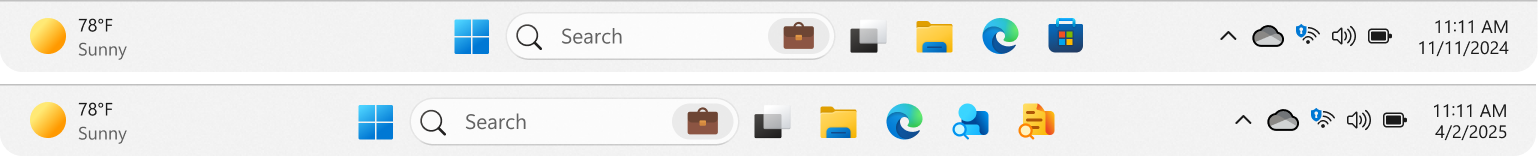
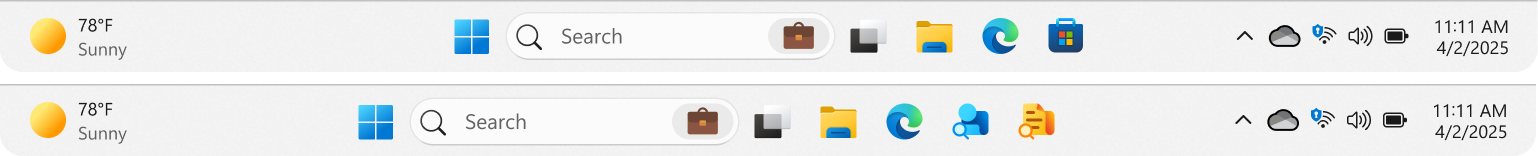
updates

Changed region(s): [[0.7802, 0.1538, 0.9987, 0.359]]

diff --git a/windows/configuration/taskbar/includes/example-replace-pins-pingeneration.md b/windows/configuration/taskbar/includes/example-replace-pins-pingeneration.md
@@ -16,11 +16,11 @@ ms.topic: include
   <CustomTaskbarLayoutCollection PinListPlacement="Replace">
     <defaultlayout:TaskbarLayout>
       <taskbar:TaskbarPinList>
-        <taskbar:UWA AppUserModelID="windows.immersivecontrolpanel_cw5n1h2txyewy!microsoft.windows.immersivecontrolpanel" />
+        <taskbar:UWA AppUserModelID="windows.immersivecontrolpanel_cw5n1h2txyewy!microsoft.windows.immersivecontrolpanel" PinGeneration="1"/>
+        <taskbar:DesktopApp DesktopApplicationID="MSEdge"/>
         <taskbar:DesktopApp DesktopApplicationID="Microsoft.Windows.Explorer"/>
-        <taskbar:UWA AppUserModelID="Microsoft.MicrosoftEdge.Stable_8wekyb3d8bbwe!App" />
-        <taskbar:UWA AppUserModelID="Microsoft.M365Companions_8wekyb3d8bbwe!People" pingeneration="1"/>
-        <taskbar:UWA AppUserModelID="Microsoft.M365Companions_8wekyb3d8bbwe!Files" pingeneration"1"/>
+        <taskbar:UWA AppUserModelID="Microsoft.M365Companions_8wekyb3d8bbwe!People" PinGeneration="1"/>
+        <taskbar:UWA AppUserModelID="Microsoft.M365Companions_8wekyb3d8bbwe!Files" PinGeneration="1"/>
       </taskbar:TaskbarPinList>
     </defaultlayout:TaskbarLayout>
   </CustomTaskbarLayoutCollection>
